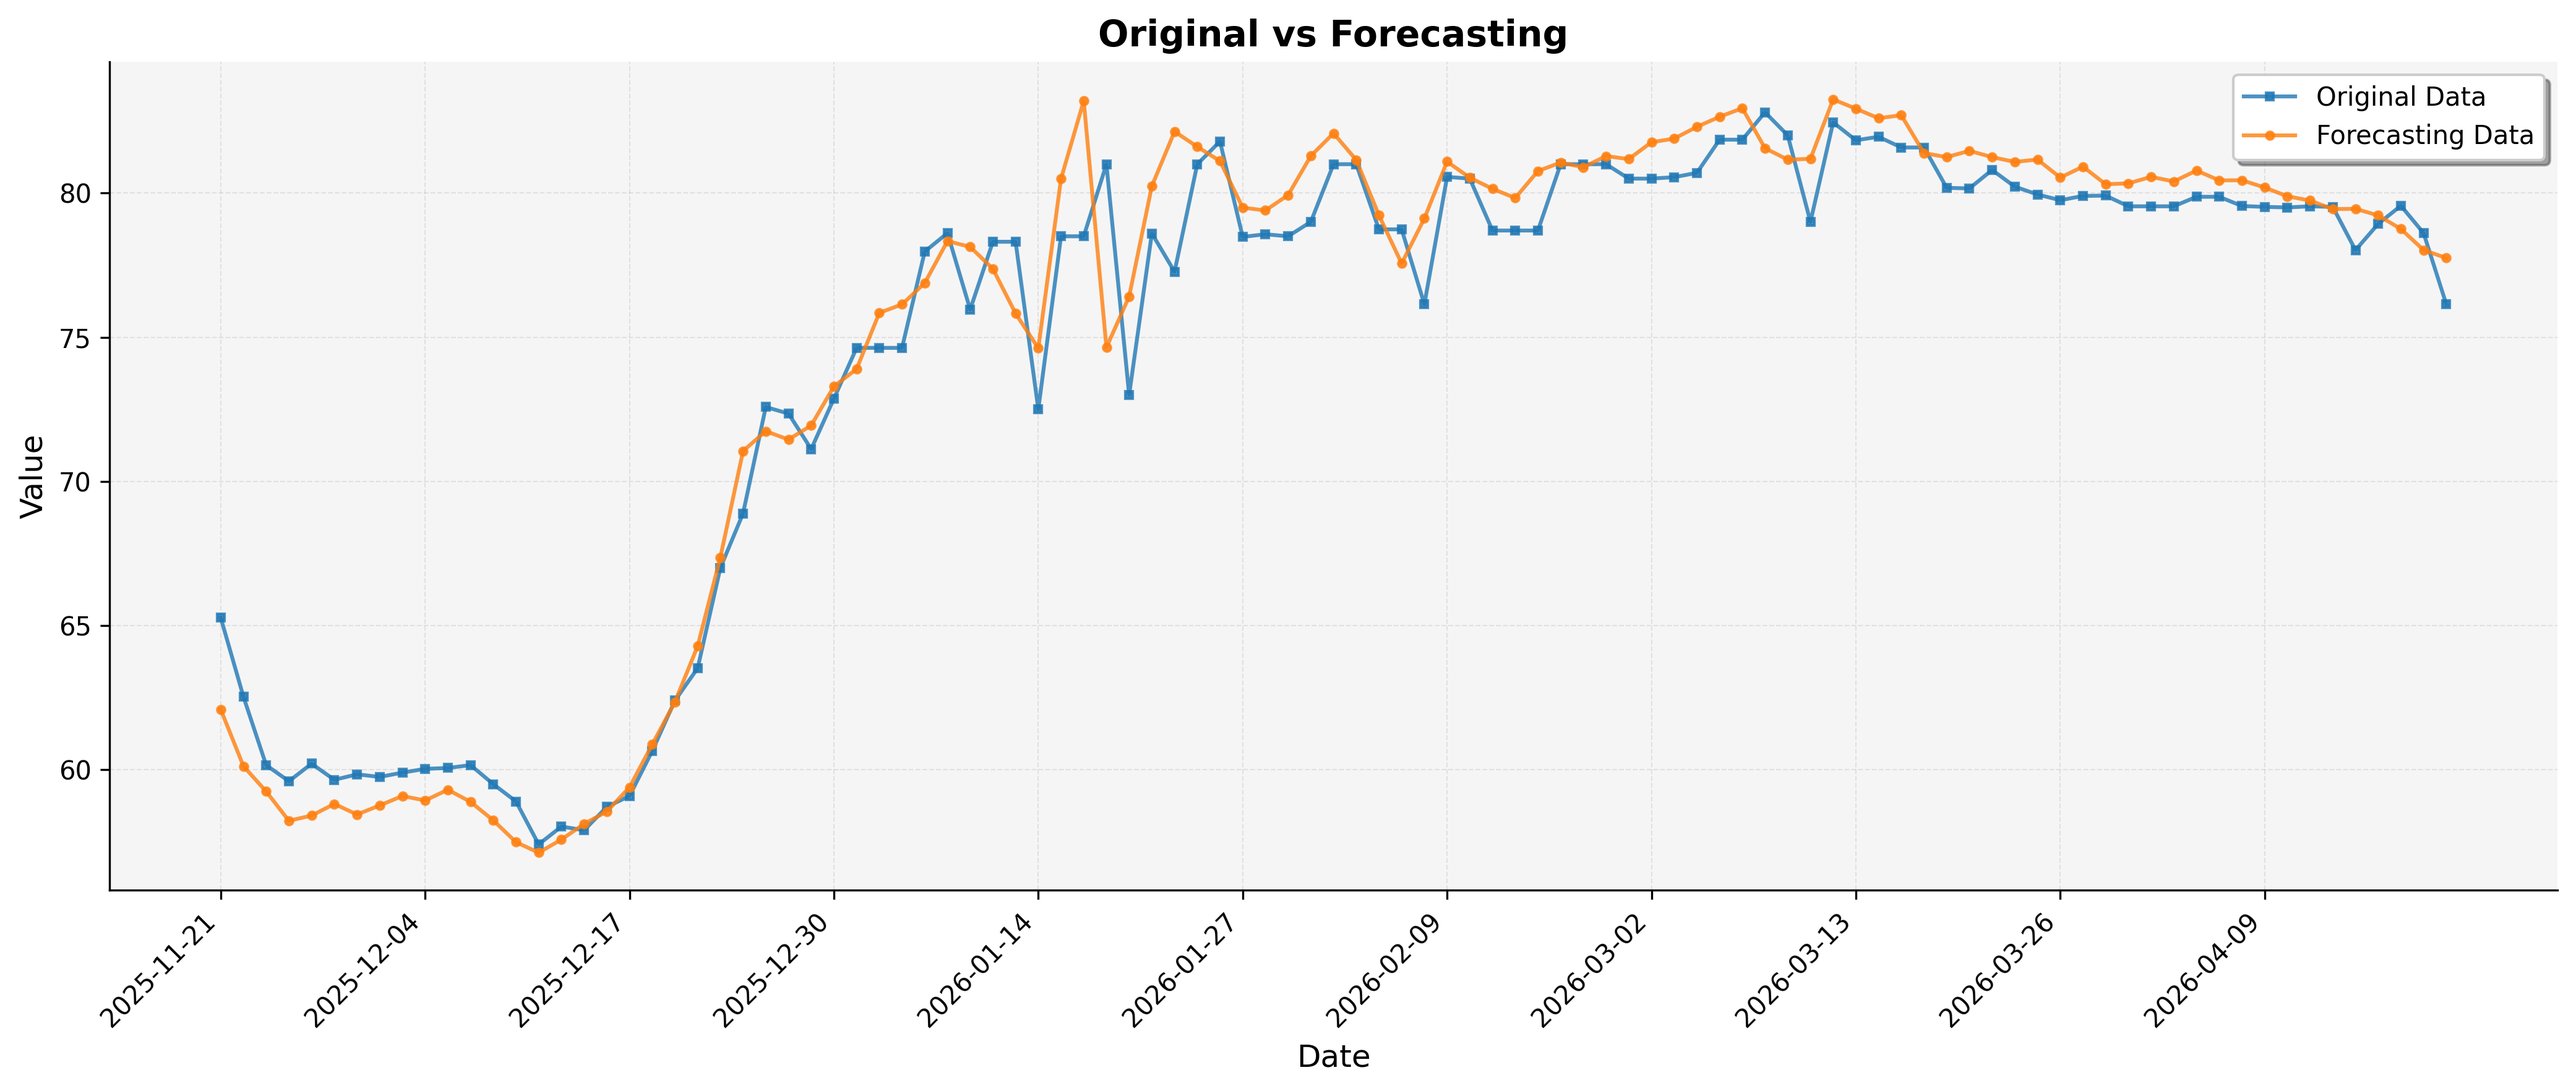
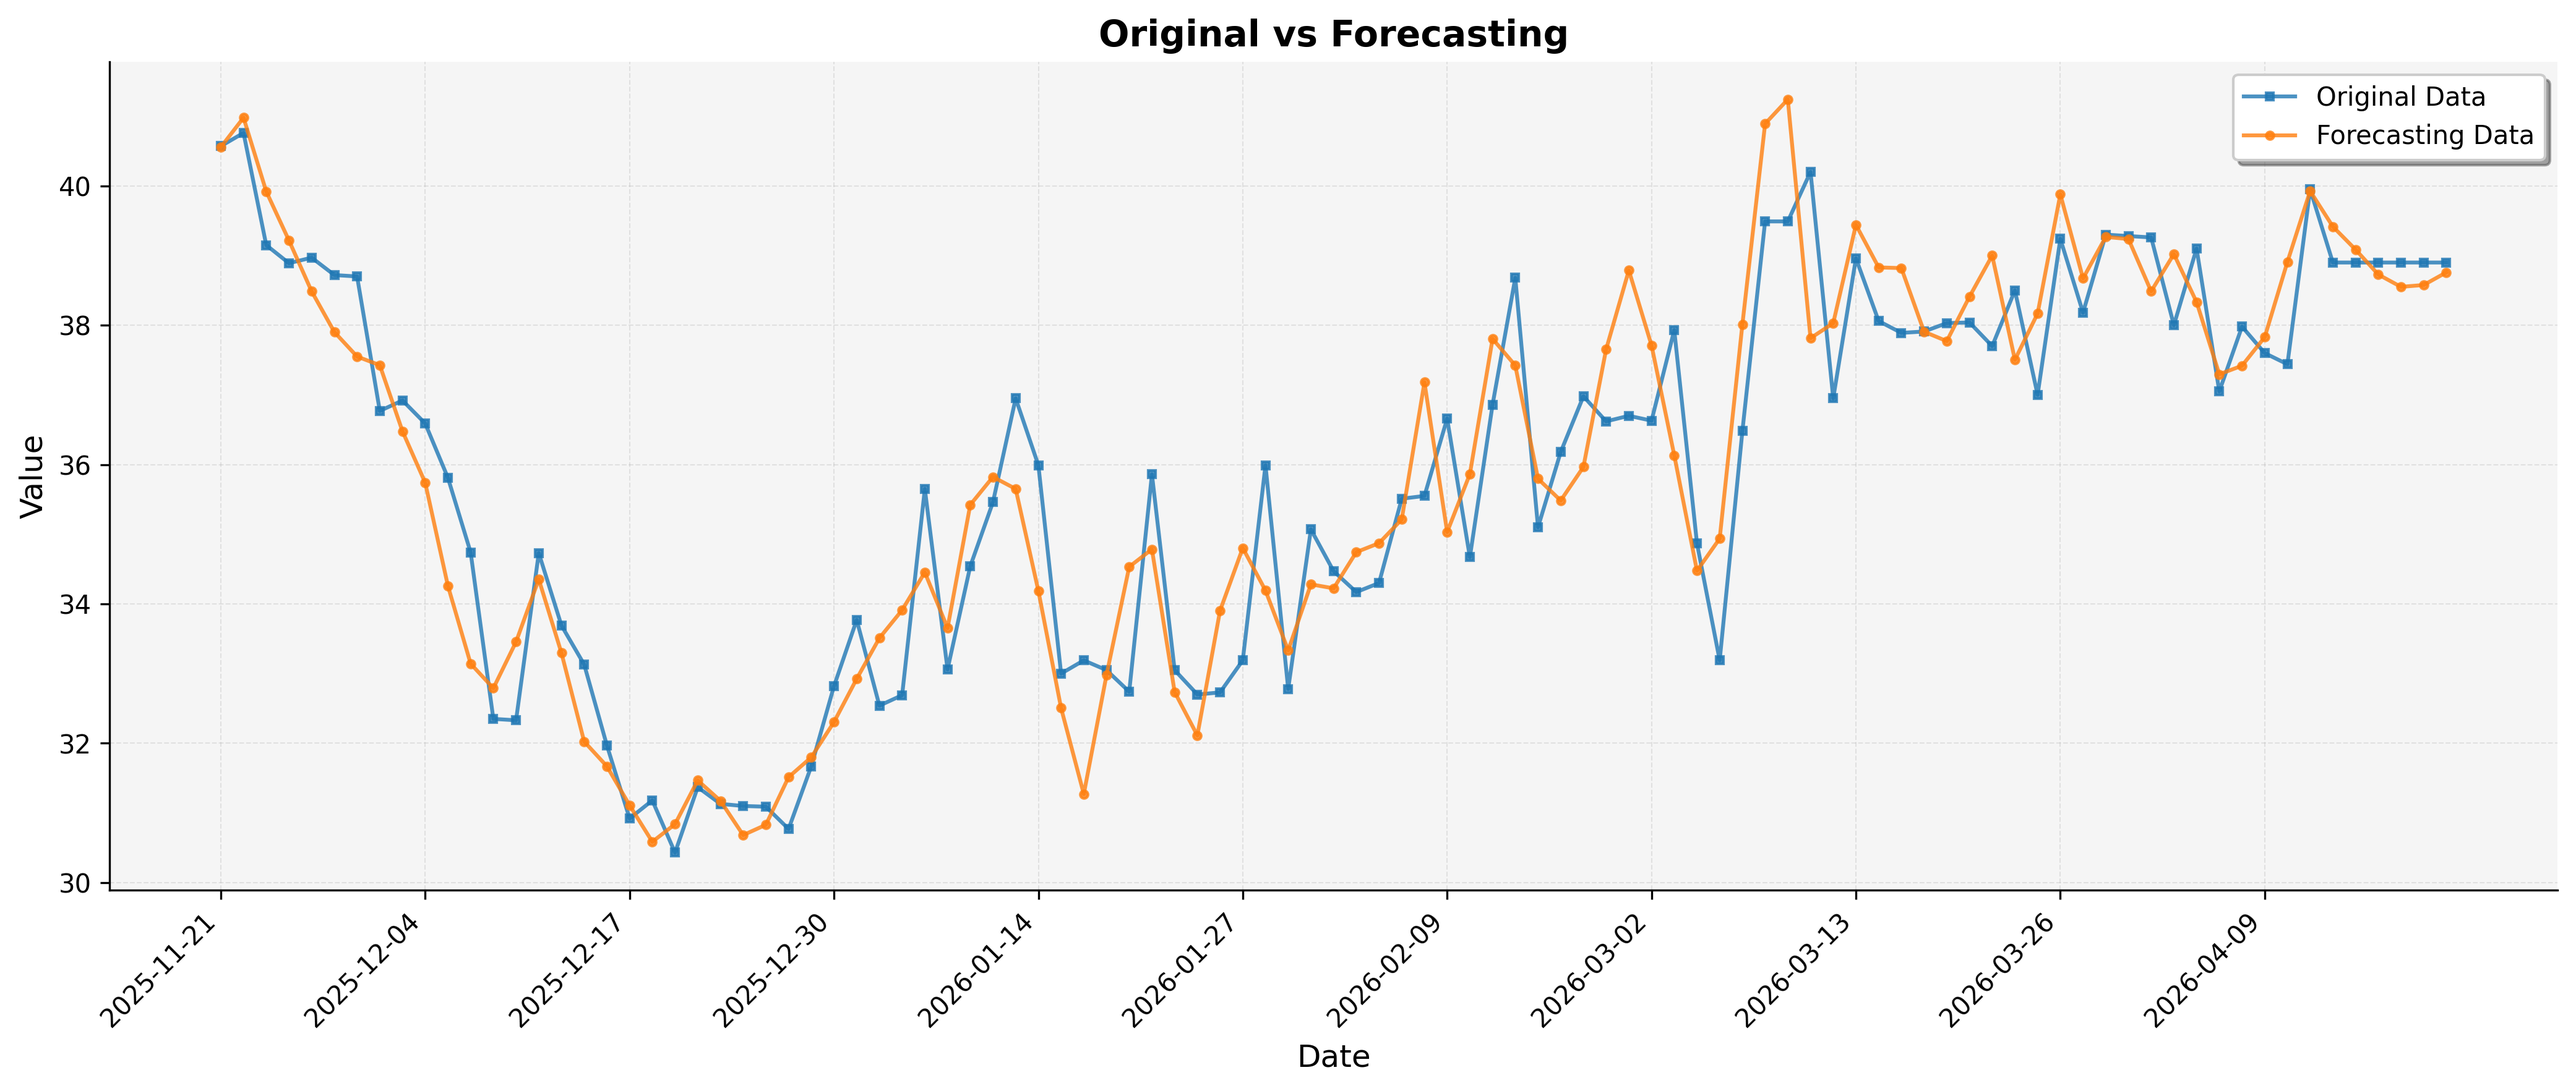
add

diff --git a/test2.py b/test2.py
@@ -2,7 +2,7 @@ import pandas as pd
 import numpy as np
 
 # 读取CSV文件（第一行是列名）
-df = pd.read_csv('subset/respective_ceemdan_se134CEA_pred.csv')
+df = pd.read_csv('subset/respective_ceemdan_se144hubei_pred.csv')
 
 # 计算三列的和
 df['sum'] = df['co-imf0'] + df['co-imf1'] + df['co-imf2']
@@ -14,7 +14,7 @@ output_df = pd.DataFrame({
 })
 
 # 保存到CSV文件（不包含表头）
-output_df.to_csv('output145CEA.csv', index=False, header=False)
+output_df.to_csv('output144hubei.csv', index=False, header=False)
 
 print("处理完成！")
 print("\n输出结果：")

diff --git a/graph.py b/graph.py
@@ -33,11 +33,11 @@ def plot_all(title, pred_data, orig_data, dates):
 
 print(f"numpy: {np.__version__}")
 print(f"pandas: {pd.__version__}")
-file_path = 'output145CEA.csv'
+file_path = 'output144hubei.csv'
 df_pred = pd.read_csv(file_path)
 pred_data = df_pred.iloc[:, 1].values
 
-demo_path = 'CEAdemo_data.csv'
+demo_path = 'hubeidemo_data.csv'
 if os.path.exists(demo_path):
     df_orig = pd.read_csv(demo_path, header=None)
     
